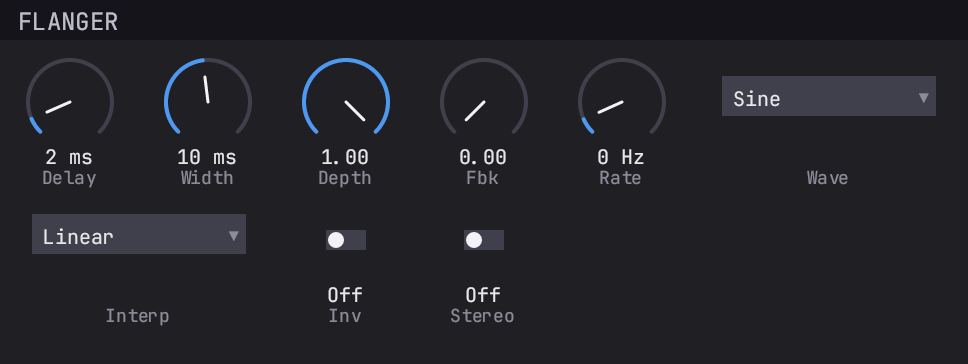
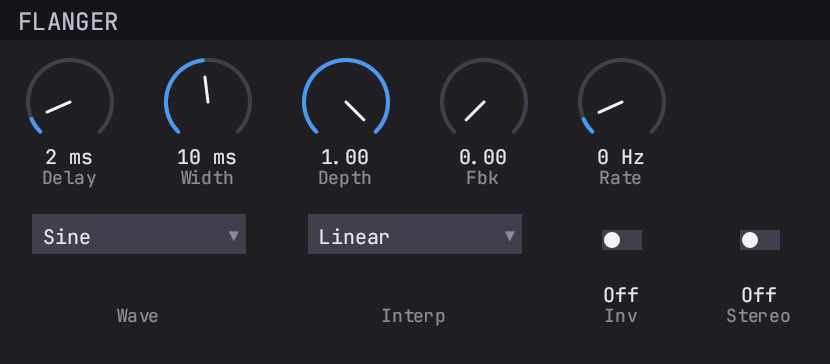
Layout tweaks

diff --git a/plugins/reiss-mcpherson-flanger/src/lib.rs b/plugins/reiss-mcpherson-flanger/src/lib.rs
@@ -269,9 +269,9 @@ impl PluginLogic for Flanger {
                 knob(P::Width, "Width"),
                 knob(P::Depth, "Depth"),
                 knob(P::Feedback, "Fbk"),
+                knob(P::Rate, "Rate"),
             ]),
             widgets(vec![
-                knob(P::Rate, "Rate"),
                 dropdown(P::Waveform, "Wave").cols(2),
                 dropdown(P::Interp, "Interp").cols(2),
                 toggle(P::Inverted, "Inv"),
@@ -279,7 +279,7 @@ impl PluginLogic for Flanger {
             ]),
         ])
         .with_title("FLANGER")
-        .with_cols(7)
+        .with_cols(6)
         .into_editor(&self.params)
     }
 }
